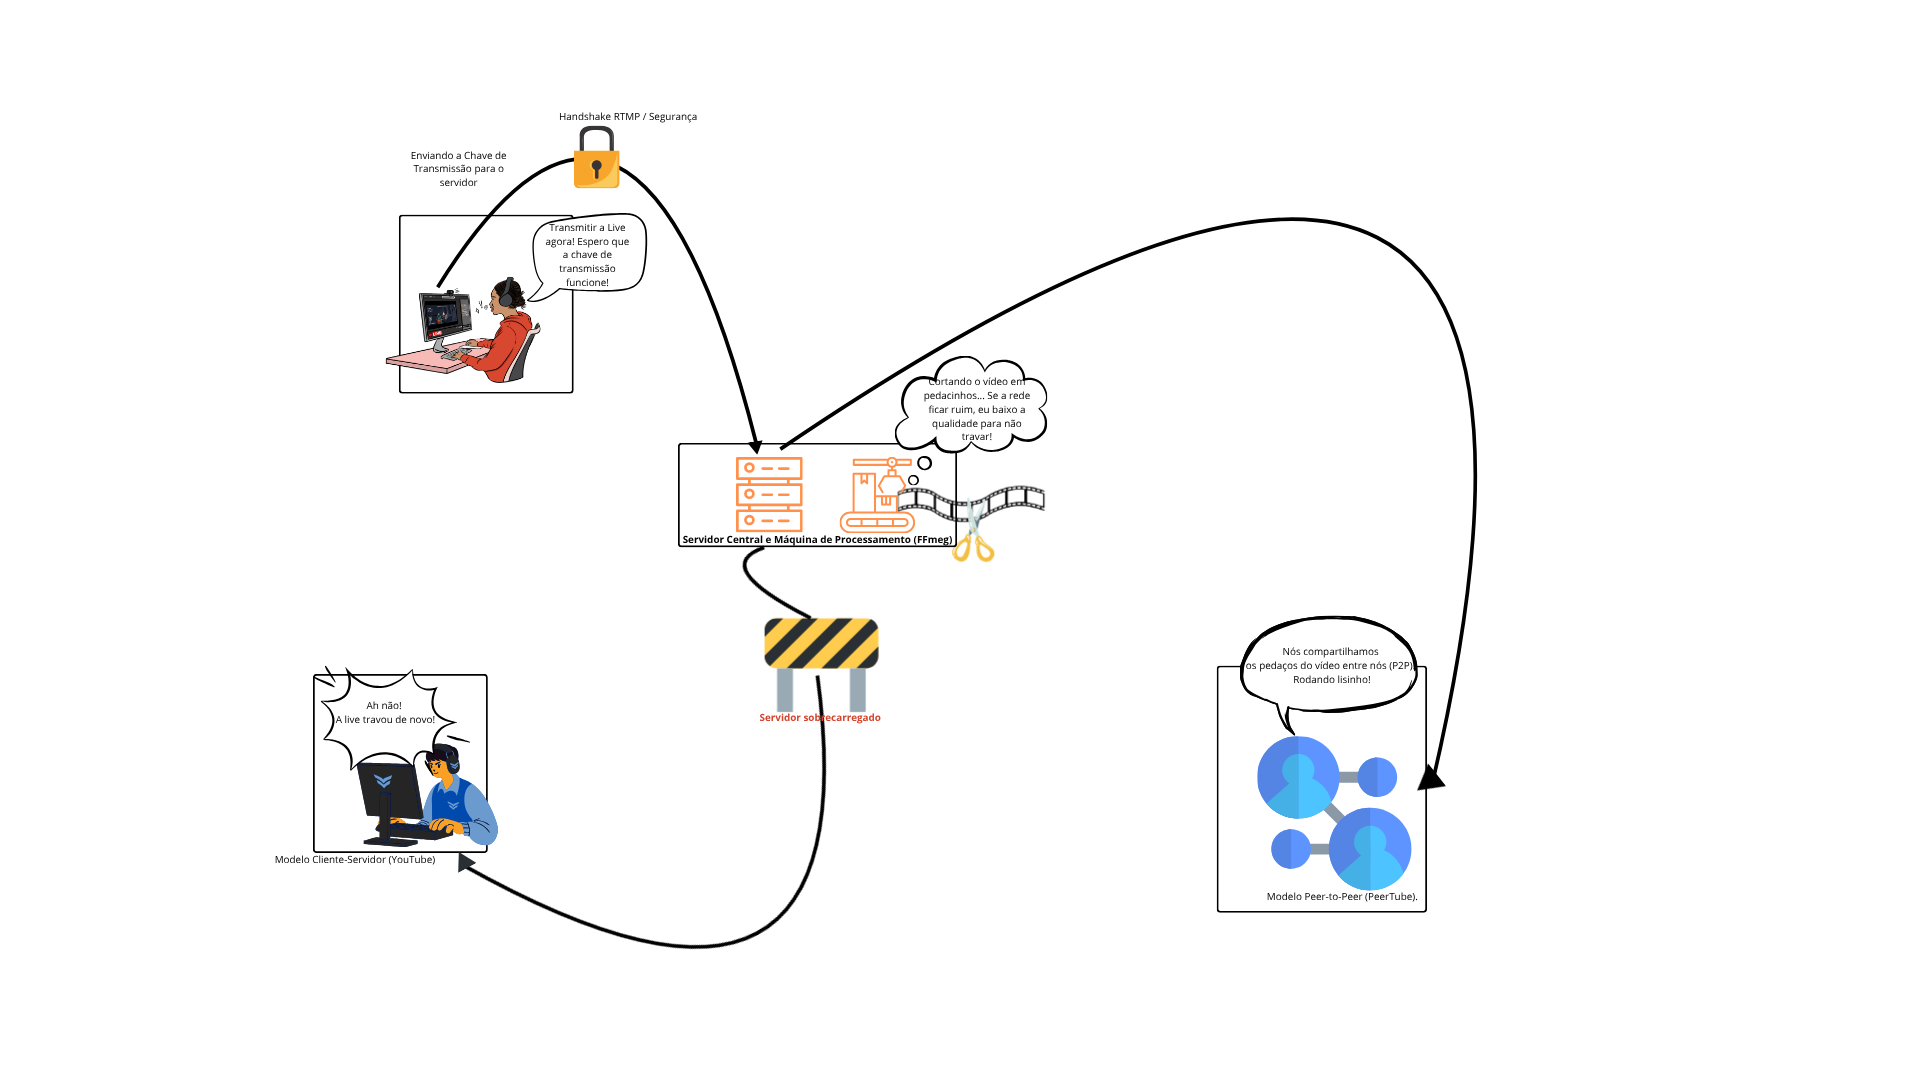
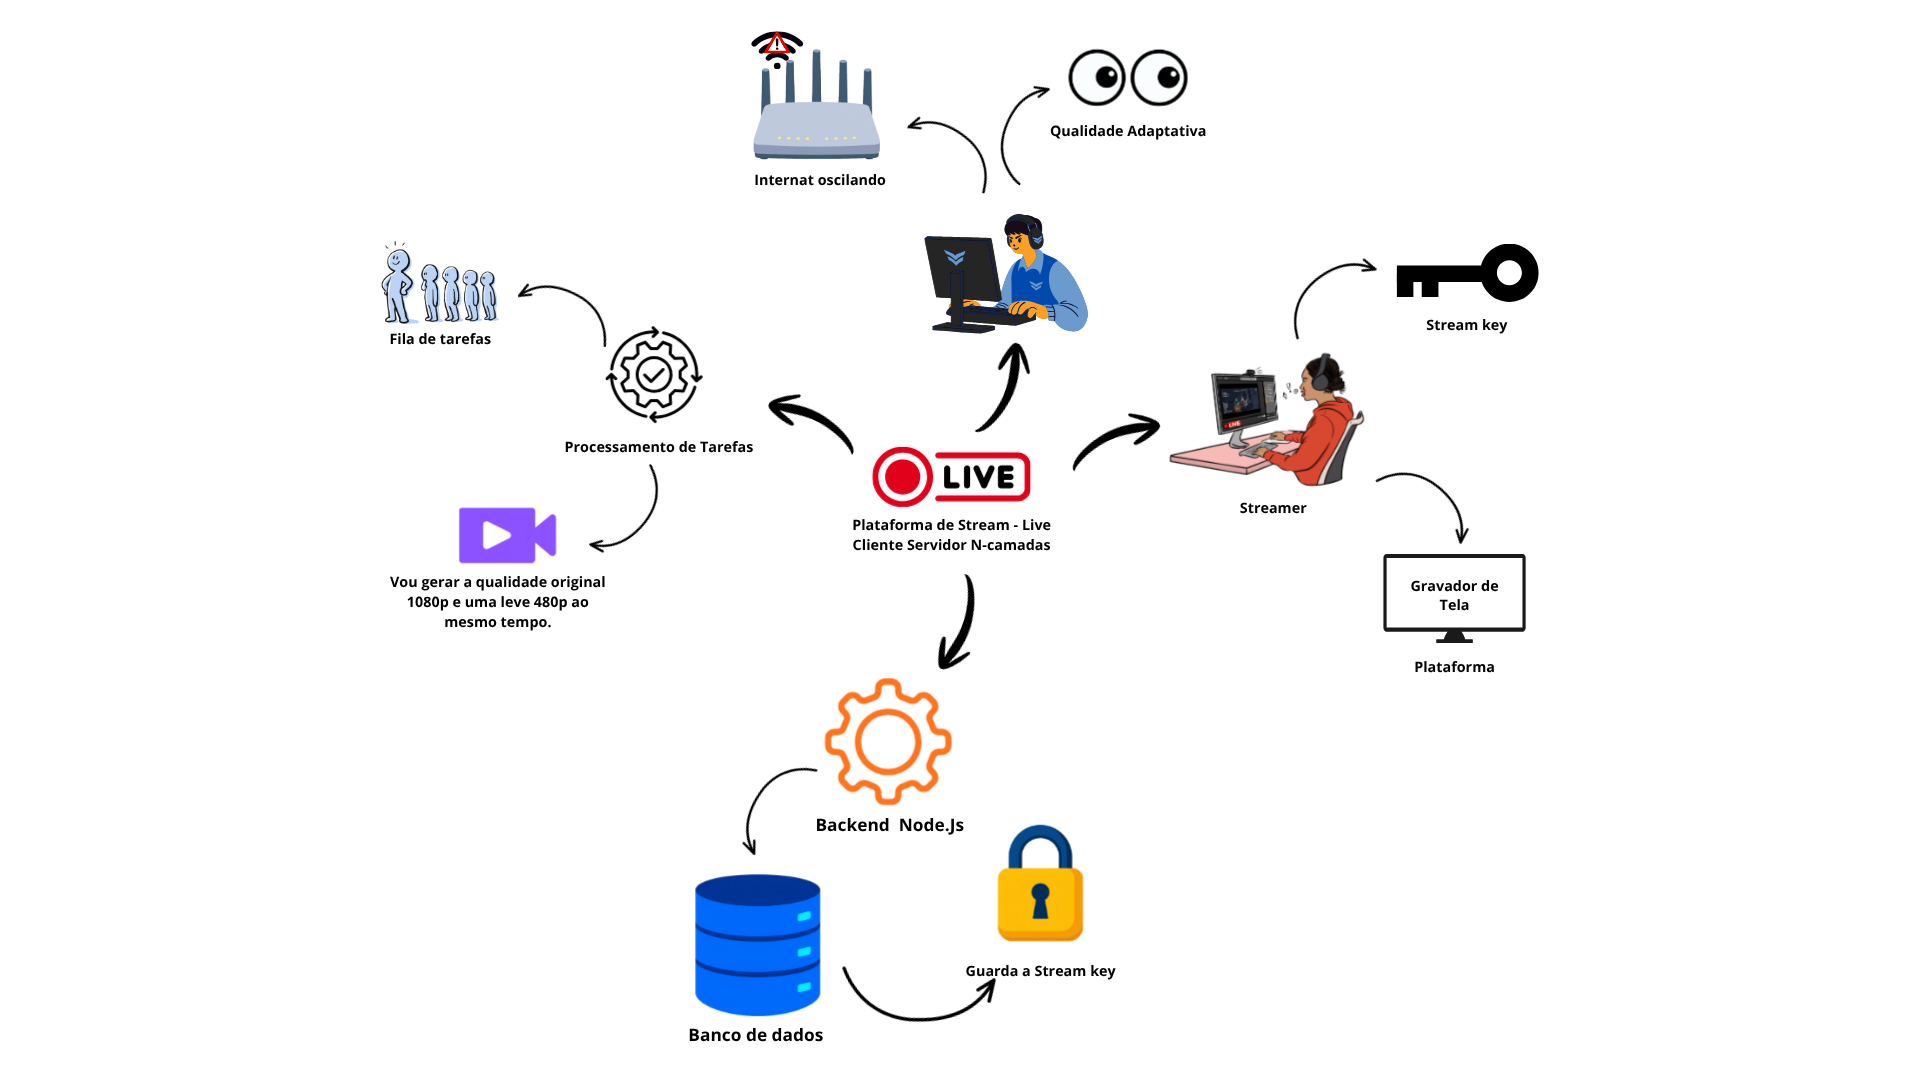
docs: atualiza rich picture e adiciona relato ao foco 03

diff --git a/docs/Base/Relatórios/1.1.1.SubEquipe_01.md b/docs/Base/Relatórios/1.1.1.SubEquipe_01.md
@@ -210,9 +210,6 @@ O trabalho de engenharia reversa desta frente ilustra de forma prática as segui
 
 ---
 
-
-
-
 ### Frente B: Processamento e Transcodificação de Mídia
 
 #### Introdução
@@ -264,6 +261,13 @@ Para validar os modelos arquiteturais inferidos da engenharia reversa, a Frente 
 *   **Latência em Streaming ao Vivo:** A literatura técnica de infraestrutura atesta que a latência possui uma relação direta e mecânica com o comprimento do segmento de vídeo. Segmentos demasiadamente longos inserem um atraso intrínseco irreversível, exigindo o trade-off de pacotes curtos na casa de 1 a 5 segundos para transmissões ao vivo <a href="#ref10">[¹⁰]</a>.
 *   **Transição de Codecs de Alta Eficiência:** O avanço empírico do processamento é justificado pelas eficiências de compressão: o codec AV1 consegue reduzir os arquivos em até 30% ou mais perante o HEVC mantendo a mesma percepção visual, enquanto o VP9 traz alívio considerável ao substituir o H.264 para reprodução limpa na web móvel <a href="#ref12">[¹²]</a>.
 
+---
+
+### FOCO_03: IA Generativa
+##### Participantes no Foco_03
+| Nome do Membro | Lições Aprendidas | Uso da IA Generativa (SENSO CRÍTICO) |
+| :--- | :--- | :--- |
+| [Gabriel Diniz](https://github.com/GabrielDiniz12) | A aplicação da engenharia reversa foi uma experiência inédita, revelando-se desafiadora e muito interessante. Ao analisar o ecossistema do YouTube, a inacessibilidade do código-fonte exigiu a adoção técnica de Caixa Preta (*Black-Box*), demandando intensa busca por documentações externas e observação de telemetria no cliente. Em contrapartida, a investigação do PeerTube permitiu uma profunda análise exploratória através de sua documentação oficial (*White-Box*). Outro marco importante foi a elaboração da *Rich Picture*: o desafio de traduzir, pela primeira vez, fluxos técnicos complexos e dados de arquitetura para uma linguagem puramente visual e intuitiva provou ser uma excelente prática de abstração. | A IA Generativa atuou como uma ferramenta colaborativa essencial, auxiliando na busca e na análise massiva de mais de 40 links e artigos técnicos, principalmente sobre a infraestrutura do YouTube. Ela foi fundamental para revisar conceitos, esclarecer jargões de infraestrutura de rede que eu desconhecia e apontar detalhes arquiteturais que haviam passado despercebidos durante a pesquisa. A ferramenta também estruturou o texto final (assim como me ajudou a formalizar melhor esse relato sobre ela). Contudo,notei que a IA apresentou grande dificuldade e "teimosia" em uma tarefa aparentemente trivial: a ordenação sequencial lógica dos números de referência bibliográfica no corpo do texto (para hiperlinks), o que demandou repetidas correções manuais de contexto. Apesar dessa limitação de formatação, a colaboração gerou grande valor e agilidade ao projeto. |
 ---
 
 #### Referências Bibliográficas
@@ -321,3 +325,4 @@ Para validar os modelos arquiteturais inferidos da engenharia reversa, a Frente 
 | 2.0 | [Breno Teixeira](https://github.com/brenolteixeira)| Adiciona Fluxo de Engenharia Reversa: Ciclo de Ingestão e Controle | 27/08/2026 |
 | 2.1 | [Breno Teixeira](https://github.com/brenolteixeira)| Adiciona Conexão e Alinhamento Teórico com a Disciplina | 27/08/2026 |
 | 2.2 | [Breno Teixeira](https://github.com/brenolteixeira)| Adiciona Imagem do SIG | 27/08/2026 |
+| 2.3 | [Gabriel Diniz](https://github.com/GabrielDiniz12)| Atualiza Rich Picture e adiciona "relato" ao foco 3 | 27/08/2026 |
